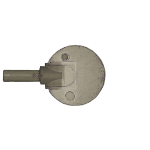
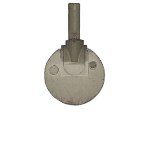
lskgjhl

Changed region(s): [[0.0, 0.0, 0.72, 0.72], [0.64, 0.6133, 0.6667, 0.64], [0.3467, 0.3467, 0.3733, 0.3733]]

diff --git a/Artillery.py b/Artillery.py
@@ -22,23 +22,64 @@ class Artillery:
     self.y = 0
     self.player_x = 0
     self.player_y = 0
+    self.turret_angle = 0
+    self.turret_traverse = 85 * (self.period/1000)
     self.dead = False
     self.arty_hull_file = PhotoImage(file="Arty_hull.png")
     self.arty_turret_file = Image.open("Arty_turret.png")
     self.explosion_file = PhotoImage(file="Arty_explosion.png")
   def update_turret(self, vx, vy):
     if self.dead == False:
+      if self.turret_angle > 180:
+        self.turret_angle = self.turret_angle - 360
+      elif self.turret_angle <= - 180:
+        self.turret_angle = self.turret_angle + 360
       self.turret_x = self.turret_x + vx
       self.turret_y = self.turret_y + vy
       #self.player_y = relative position of the tank to center of the map
       #self.y = relative position of the artillery to center of the map
-      player_y = self.player_y - self.y + self.screen_height/2
-      player_x = self.player_x - self.x + self.screen_width/2
-      self.turret_angle = degrees(atan(player_x/player_y)) - 90
-      if player_y > 0:
-        self.turret_angle = self.turret_angle + 180
+      self.relative_y = self.player_y - self.y + self.screen_height/2
+      self.relative_x = self.player_x - self.x + self.screen_width/2
+      if self.relative_x == 0:
+        self.relative_x == 0.00000001
+      if self.relative_y == 0:
+        self.relative_y = 0.00000001
+      enemy_angle = degrees(atan(self.relative_x/self.relative_y))
+      if self.relative_y > 0:
+        if self.relative_x < 0:
+          enemy_angle = enemy_angle + 180
+        else:
+          enemy_angle = enemy_angle - 180
+      delta = self.turret_move(enemy_angle)
+      if abs(delta) > 0.5 * self.turret_traverse:
+        if delta > 0:
+          self.turret_angle = self.turret_angle + self.turret_traverse
+        else:
+          self.turret_angle = self.turret_angle - self.turret_traverse
       self.rotated_turret = ImageTk.PhotoImage(self.arty_turret_file.rotate(self.turret_angle))
       self.turret_picture = self.canvas.create_image(self.turret_x+5, self.turret_y, image = self.rotated_turret)
+  
+  def turret_move(self, enemy_angle):
+    delta = enemy_angle-self.turret_angle 
+    if enemy_angle * self.turret_angle >= 0:
+      return delta
+    if enemy_angle > 0: 
+      enemy_angle = enemy_angle - 180
+    else:
+      enemy_angle = enemy_angle + 180
+    delta = enemy_angle - self.turret_angle
+    delta = - delta
+    return delta
+    
+  def shoot(self):
+    if self.dead == False:
+      target_x = self.screen_width/2
+      target_y = self.screen_height/2
+      my_x = target_x - self.relative_x
+      my_y = target_y - self.relative_y
+      self.shell = Shell(self.canvas, self.window, target_x, target_y, my_x, my_y)
+      self.window.after(5000, self.shoot)
+      
   def die(self):
     if self.dead==False:
         self.dead = True
@@ -48,6 +89,7 @@ class Artillery:
         self.canvas.delete(self.object)
         self.explosion_picture = self.canvas.create_image(coords[0], coords[1]-50, image = self.explosion_file)
         self.window.after(200, self.delete_explosion)
+        
   def spawn(self, x, y):
     self.x = x
     self.y = y
@@ -58,13 +100,25 @@ class Artillery:
     self.y = self.y + self.player_y
     self.dead = False
     self.update_turret(0,0)
+    self.window.after(2500, self.shoot)
+    
   def delete_explosion(self):
     self.canvas.delete(self.explosion_picture)
     self.window.after(1200, self.play_death_sound)
+    
   def play_death_sound(self):
     n_effects=4
     chosen = randint(1, n_effects)
     pygame.mixer.music.load('arty_death_' + str(chosen) + ".wav")
     pygame.mixer.music.play()
-
-
+    
+    
+class Shell:
+  def __init__(self, canvas, window, target_x, target_y, my_x, my_y):
+    self.canvas = canvas
+    self.window = window
+    self.target_x = target_x
+    self.target_y = target_y
+    self.my_x = my_x
+    self.my_y = my_y
+    print("oh hi mark")

diff --git a/Minimap.py b/Minimap.py
@@ -29,6 +29,10 @@ class Minimap:
     self.arty = self.canvas.create_rectangle(self.arty_picture_x+1, self.arty_picture_y+1, self.arty_picture_x-1, self.arty_picture_y-1, fill="red", outline="red")
   
   def show_player (self, player_vx, player_vy):
+    self.canvas.delete(self.minimap)
+    self.minimap = self.canvas.create_image(self.screen_width-125, self.screen_height-125, image = self.minimap_file)
+    self.canvas.delete(self.arty)
+    self.arty = self.canvas.create_rectangle(self.arty_picture_x+1, self.arty_picture_y+1, self.arty_picture_x-1, self.arty_picture_y-1, fill="red", outline="red")
     self.player_x = self.player_x + player_vx
     self.player_y = self.player_y + player_vy
     self.player_picture_x = self.player_x/20 + self.screen_width - 250
